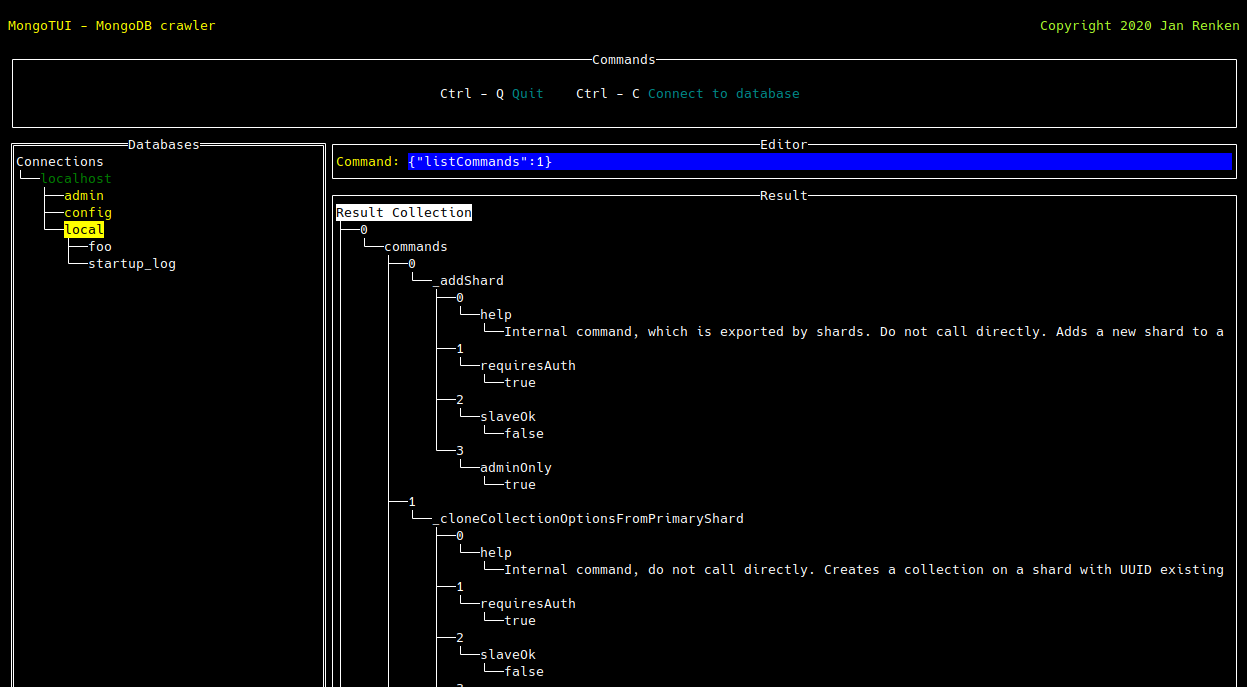
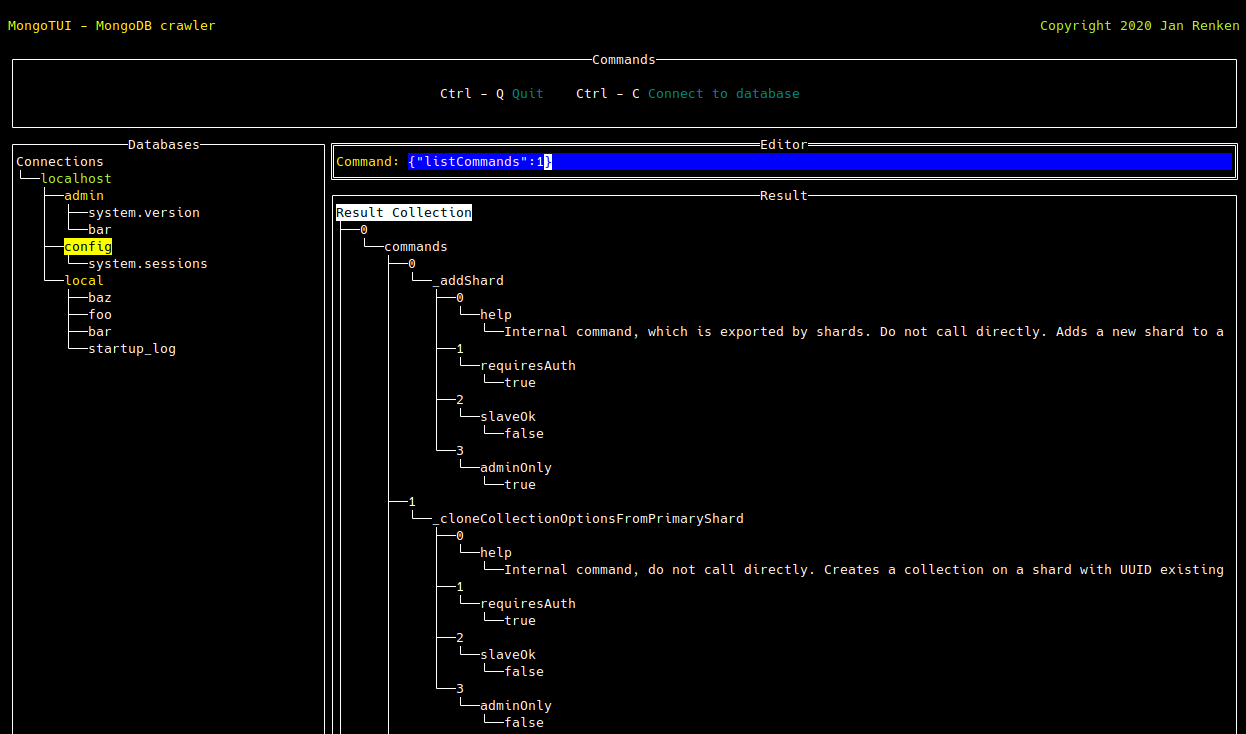
Add database tree update and fix golint issues

diff --git a/mongo/connection.go b/mongo/connection.go
@@ -17,7 +17,6 @@ package mongo
 
 import (
 	"context"
-	"errors"
 	"fmt"
 	"time"
 
@@ -36,14 +35,18 @@ const defaultHost string = "localhost"
 
 var clients map[string]*mongo.Client = make(map[string]*mongo.Client)
 
+// Connect establishes a connection to the MongoDB instance specified by
+// the passed models.Conenction and stores the resulting client in the internal
+// client map with its URI as key.
 func Connect(ctx context.Context, connection *models.Connection) error {
-
-	buildConnectionUri(connection)
+	if connection.URI == "" {
+		buildConnectionURI(connection)
+	}
 
 	ctx, cancel := context.WithTimeout(ctx, 20*time.Second)
 	defer cancel()
 
-	client, err := mongo.Connect(ctx, options.Client().ApplyURI(connection.Uri).SetConnectTimeout(10*time.Second))
+	client, err := mongo.Connect(ctx, options.Client().ApplyURI(connection.URI).SetConnectTimeout(10*time.Second))
 	if err != nil {
 		return err
 	}
@@ -53,15 +56,17 @@ func Connect(ctx context.Context, connection *models.Connection) error {
 		return err
 	}
 
-	clients[connection.Uri] = client
+	clients[connection.URI] = client
 	return nil
 }
 
-func GetDatabases(ctx context.Context, connectionUri string) ([]string, error) {
+// GetDatabases returns the databases of the MongoDB instance specified by the
+// passed connectionURI as string slice.
+func GetDatabases(ctx context.Context, connectionURI string) ([]string, error) {
 	ctx, cancel := context.WithTimeout(ctx, 10*time.Second)
 	defer cancel()
 
-	client, err := getClient(connectionUri)
+	client, err := getClient(connectionURI)
 	if err != nil {
 		return []string{}, err
 	}
@@ -73,31 +78,39 @@ func GetDatabases(ctx context.Context, connectionUri string) ([]string, error) {
 	return databases, nil
 }
 
-func Disconnect(ctx context.Context, connectionUri string) error {
+// Disconnect disconnects from the MongoDB instance specified by
+// the passed connectionURI and removes the related entry from the
+// internal clients map.
+func Disconnect(ctx context.Context, connectionURI string) error {
 	ctx, cancel := context.WithTimeout(ctx, 10*time.Second)
 	defer cancel()
 
-	client, err := getClient(connectionUri)
+	client, err := getClient(connectionURI)
 	if err != nil {
 		return err
 	}
 	if err = client.Disconnect(ctx); err != nil {
 		return err
 	}
+	delete(clients, connectionURI)
+
 	return nil
 }
 
+// DisconnectAll disconnects from all connected MongoDB instances and
+// cleans up the internal clients map.
 func DisconnectAll(ctx context.Context) error {
 	ctx, cancel := context.WithTimeout(ctx, 10*time.Second)
 	defer cancel()
 
-	for _, client := range clients {
+	for key, client := range clients {
 		client.Disconnect(ctx)
+		delete(clients, key)
 	}
 	return nil
 }
 
-func buildConnectionUri(connection *models.Connection) {
+func buildConnectionURI(connection *models.Connection) {
 	host := connection.Host
 	if host == "" {
 		host = defaultHost
@@ -106,12 +119,12 @@ func buildConnectionUri(connection *models.Connection) {
 	if connection.Port != "" {
 		port = fmt.Sprintf(":%s", connection.Port)
 	}
-	connection.Uri = fmt.Sprintf("mongodb://%s%s", host, port)
+	connection.URI = fmt.Sprintf("mongodb://%s%s", host, port)
 }
 
-func getClient(connectionUri string) (*mongo.Client, error) {
-	if client, ok := clients[connectionUri]; ok {
+func getClient(connectionURI string) (*mongo.Client, error) {
+	if client, ok := clients[connectionURI]; ok {
 		return client, nil
 	}
-	return nil, errors.New(fmt.Sprintf("Not connected to %s", connectionUri))
+	return nil, fmt.Errorf("Not connected to %s", connectionURI)
 }

diff --git a/mainscreen.go b/mainscreen.go
@@ -26,7 +26,19 @@ import (
 	"github.com/rivo/tview"
 )
 
-func CreateMainSreen(ctx context.Context, app *tview.Application, pages *tview.Pages) {
+func createMainSreen(ctx context.Context, app *tview.Application, pages *tview.Pages) {
+
+	databaseTree := ui.CreateDatabaseTree(app, pages, func(connectionUri string, name string) []string {
+		mongo.UseDatabase(connectionUri, name)
+		collections, err := mongo.GetCollections(ctx)
+		if err != nil {
+			message := fmt.Sprintf("Getting collections of database %s failed:\n\n%s", name, err.Error())
+			ui.CreateMessageModalWidget(app, pages, ui.TypeError, message)
+			return collections
+		}
+		return collections
+	})
+
 	resultView := ui.CreateResultTree(app, pages)
 	editor := tview.NewInputField().
 		SetLabel("Command: ").
@@ -38,6 +50,7 @@ func CreateMainSreen(ctx context.Context, app *tview.Application, pages *tview.P
 			return
 		}
 		resultView.SetResult(result)
+		databaseTree.UpdateCollections()
 	})
 
 	commandsView := tview.NewTextView().
@@ -53,17 +66,6 @@ func CreateMainSreen(ctx context.Context, app *tview.Application, pages *tview.P
 
 	resultView.SetBorder(true).SetTitle("Result")
 	editor.SetBorder(true).SetTitle("Editor")
-
-	databaseTree := ui.GetDatabaseTree(app, pages, func(connectionUri string, name string) []string {
-		mongo.UseDatabase(connectionUri, name)
-		collections, err := mongo.GetCollections(ctx)
-		if err != nil {
-			message := fmt.Sprintf("Getting collections of database %s failed:\n\n%s", name, err.Error())
-			ui.CreateMessageModalWidget(app, pages, ui.TypeError, message)
-			return collections
-		}
-		return collections
-	})
 
 	flex := tview.NewFlex().SetDirection(tview.FlexRow).
 		AddItem(commandsView, 5, 1, false).
@@ -81,9 +83,9 @@ func CreateMainSreen(ctx context.Context, app *tview.Application, pages *tview.P
 		AddText("Copyright 2020 Jan Renken", true, tview.AlignRight, tcell.ColorGreenYellow)
 	pages.AddPage("frame", frame, true, true)
 
-	quitModal := ui.GetQuitModalWidget(app, pages)
+	quitModal := ui.CreateQuitModalWidget(app, pages)
 
-	connectionForm := ui.GetConnectionFormWidget(app, pages, func(connection *models.Connection) {
+	connectionForm := ui.CreateConnectionFormWidget(app, pages, func(connection *models.Connection) {
 		err := mongo.Connect(ctx, connection)
 		if err != nil {
 			message := fmt.Sprintf("Connection to %s failed:\n\n%s", connection.Host, err.Error())
@@ -91,13 +93,13 @@ func CreateMainSreen(ctx context.Context, app *tview.Application, pages *tview.P
 			return
 		}
 
-		databases, err := mongo.GetDatabases(ctx, connection.Uri)
+		databases, err := mongo.GetDatabases(ctx, connection.URI)
 		if err != nil {
 			message := fmt.Sprintf("Getting databeses of %s failed:\n\n%s", connection.Host, err.Error())
 			ui.CreateMessageModalWidget(app, pages, ui.TypeError, message)
 			return
 		}
-		databaseTree.AddDatabases(connection.Host, connection.Uri, databases)
+		databaseTree.AddDatabases(connection.Host, connection.URI, databases)
 		pages.RemovePage("connection")
 	})
 

diff --git a/ui/connectionform.go b/ui/connectionform.go
@@ -16,6 +16,8 @@
 package ui
 
 import (
+	"fmt"
+
 	"github.com/gdamore/tcell"
 	"github.com/renkman/mongotui/models"
 	"github.com/rivo/tview"
@@ -28,6 +30,17 @@ type FormWidget struct {
 }
 
 func createConnectionForm(cancel func()) (*tview.Flex, *tview.Form) {
+	header := tview.NewTextView().
+		SetDynamicColors(true).
+		SetRegions(true).
+		SetWrap(false).
+		SetHighlightedFunc(func(added, removed, remaining []string) {
+			//pages.SwitchToPage(added[0])
+		})
+
+	fmt.Fprint(header, `["multifield"][greenyellow]Individual[""]     `)
+	fmt.Fprint(header, `["uri"][greenyellow]Uri[""]\t`)
+
 	connectionForm := tview.NewForm().
 		AddInputField("Host:", "", 20, nil, nil).
 		AddInputField("Port:", "", 20, tview.InputFieldInteger, nil).
@@ -35,6 +48,7 @@ func createConnectionForm(cancel func()) (*tview.Flex, *tview.Form) {
 		AddPasswordField("Password:", "", 20, '*', nil).
 		AddInputField("Replicaset:", "", 20, nil, nil).
 		AddCheckbox("TLS/SSL:", false, nil).
+		AddInputField("Uri:", "", 40, nil, nil).
 		AddButton("Connect", nil).
 		AddButton("Cancel", cancel)
 	connectionForm.SetBorder(true).SetTitle("Mongo DB Connection")
@@ -43,14 +57,15 @@ func createConnectionForm(cancel func()) (*tview.Flex, *tview.Form) {
 		AddItem(nil, 0, 1, false).
 		AddItem(tview.NewFlex().SetDirection(tview.FlexRow).
 			AddItem(nil, 0, 1, false).
-			AddItem(connectionForm, 18, 1, false).
-			AddItem(nil, 0, 1, false), 40, 1, false).
+			AddItem(header, 2, 1, false).
+			AddItem(connectionForm, 20, 1, false).
+			AddItem(nil, 0, 1, false), 60, 1, false).
 		AddItem(nil, 0, 1, false)
 
 	return modal, connectionForm
 }
 
-func GetConnectionFormWidget(app *tview.Application, pages *tview.Pages, connect func(connection *models.Connection)) *FormWidget {
+func CreateConnectionFormWidget(app *tview.Application, pages *tview.Pages, connect func(connection *models.Connection)) *FormWidget {
 	modal, form := createConnectionForm(
 		func() {
 			pages.RemovePage("connection")
@@ -85,6 +100,8 @@ func (f *FormWidget) GetData() models.Connection {
 	connection.User = f.GetFormItem(2).(*tview.InputField).GetText()
 	connection.Password = f.GetFormItem(3).(*tview.InputField).GetText()
 	connection.Replicaset = f.GetFormItem(4).(*tview.InputField).GetText()
+	connection.TLS = f.GetFormItem(5).(*tview.Checkbox).IsChecked()
+	connection.URI = f.GetFormItem(6).(*tview.InputField).GetText()
 
 	return connection
 }

diff --git a/ui/databasetree.go b/ui/databasetree.go
@@ -42,7 +42,7 @@ func createDatabaseTree() *tview.TreeView {
 	return tree
 }
 
-func GetDatabaseTree(app *tview.Application,
+func CreateDatabaseTree(app *tview.Application,
 	pages *tview.Pages,
 	loadCollections func(connectionUri string, database string) []string) *DatabaseTreeWidget {
 	tree := createDatabaseTree()
@@ -72,8 +72,11 @@ func (d *DatabaseTreeWidget) AddDatabases(host string, connectionUri string, dat
 		}
 	}
 	if connectionNode == nil {
+		if host == "" {
+			host = connectionUri
+		}
 		connectionNode = tview.NewTreeNode(host).
-			SetColor(tcell.ColorGreen).
+			SetColor(tcell.ColorGreenYellow).
 			SetReference(connectionUri)
 		d.TreeView.GetRoot().AddChild(connectionNode)
 	}
@@ -89,17 +92,21 @@ func (d *DatabaseTreeWidget) AddDatabases(host string, connectionUri string, dat
 	}
 }
 
+func (d *DatabaseTreeWidget) UpdateCollections() {
+	currentNode := d.TreeView.GetCurrentNode()
+	if currentNode == nil {
+		return
+	}
+	d.addCollections(currentNode)
+}
+
 func (d *DatabaseTreeWidget) getCollections(connectionUri string, name string) []string {
 	return d.loadCollections(connectionUri, name)
 }
 
 func (d *DatabaseTreeWidget) addCollections(node *tview.TreeNode) {
 	reference := node.GetReference()
-	if reference == nil {
-		return
-	}
-
-	if reference.(string) != nodeLevelDatabase {
+	if reference == nil || reference.(string) != nodeLevelDatabase {
 		return
 	}
 
@@ -108,7 +115,7 @@ func (d *DatabaseTreeWidget) addCollections(node *tview.TreeNode) {
 	collections := d.getCollections(connectionUri, node.GetText())
 
 	for _, collection := range collections {
-		node.AddChild(tview.NewTreeNode(collection)).
-			SetReference(nodeLevelCollection)
+		node.AddChild(tview.NewTreeNode(collection).
+			SetReference(nodeLevelCollection))
 	}
 }

diff --git a/mongo/database.go b/mongo/database.go
@@ -17,7 +17,7 @@ package mongo
 
 import (
 	"context"
-	"errors"
+	"fmt"
 	"time"
 
 	"go.mongodb.org/mongo-driver/bson"
@@ -28,8 +28,10 @@ import (
 
 var currentDatabase *mongo.Database
 
-func UseDatabase(connectionUrl string, name string) error {
-	client, err := getClient(connectionUrl)
+// UseDatabase sets the current database specified by the passed name of the MongoDB instance
+// specified by the passed connectionURI.
+func UseDatabase(connectionURI string, name string) error {
+	client, err := getClient(connectionURI)
 	if err != nil {
 		return err
 	}
@@ -37,7 +39,13 @@ func UseDatabase(connectionUrl string, name string) error {
 	return nil
 }
 
+// GetCollections returns the collections of the current database, which is
+// set by UseDatabase.
 func GetCollections(ctx context.Context) ([]string, error) {
+	if currentDatabase == nil {
+		return nil, fmt.Errorf("No database selected")
+	}
+
 	ctx, cancel := context.WithTimeout(ctx, 10*time.Second)
 	defer cancel()
 
@@ -48,9 +56,11 @@ func GetCollections(ctx context.Context) ([]string, error) {
 	return collections, nil
 }
 
+// Execute executes the passed command on the current database, which is set by
+// UseDatabase.
 func Execute(ctx context.Context, command []byte) (interface{}, error) {
 	if currentDatabase == nil {
-		return nil, errors.New("No database selected")
+		return nil, fmt.Errorf("No database selected")
 	}
 
 	ctx, cancel := context.WithTimeout(ctx, 10*time.Second)

diff --git a/models/connection.go b/models/connection.go
@@ -15,12 +15,18 @@
 
 package models
 
+// Connection contains the values needed to connect to a MongoDB instance.
+// It is used by the main application to bind the ui.FormWidget form data
+// and pass it to mongo.Connect.
+//
+// If URI is set only this field is used, otherwise the connection URI is
+// built from the other fields.
 type Connection struct {
 	Host       string
 	Port       string
 	User       string
 	Password   string
 	Replicaset string
-	Tls        bool
-	Uri        string
+	TLS        bool
+	URI        string
 }

diff --git a/ui/quitmodal.go b/ui/quitmodal.go
@@ -39,7 +39,7 @@ func createQuitModal(quit func(), cancel func()) *tview.Modal {
 	return quitModal
 }
 
-func GetQuitModalWidget(app *tview.Application, pages *tview.Pages) *ModalWidget {
+func CreateQuitModalWidget(app *tview.Application, pages *tview.Pages) *ModalWidget {
 	modal := createQuitModal(
 		func() { app.Stop() },
 		func() {

diff --git a/main.go b/main.go
@@ -46,7 +46,7 @@ func main() {
 	app := tview.NewApplication()
 	pages := tview.NewPages()
 
-	CreateMainSreen(ctx, app, pages)
+	createMainSreen(ctx, app, pages)
 
 	if err := app.SetRoot(pages, true).EnableMouse(true).Run(); err != nil {
 		e := fmt.Sprint(err)
